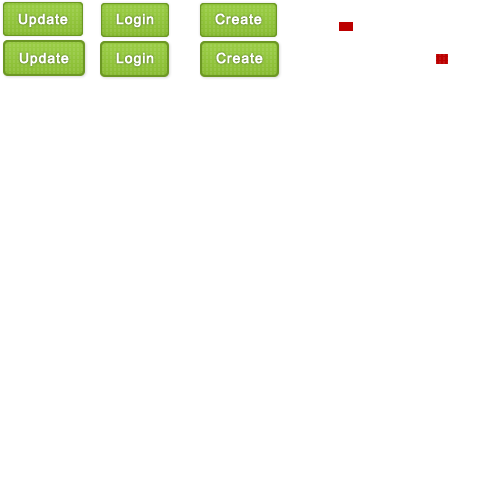
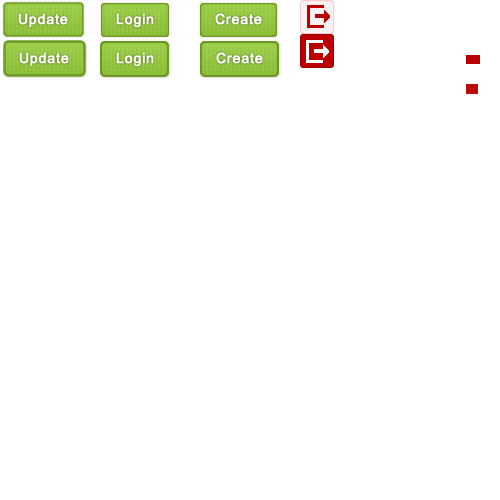
Authentication working, config generator - sets unique secret_key

diff --git a/amon/web/media/css/screen.css b/amon/web/media/css/screen.css
@@ -1,1 +1,1 @@
-html,body,div,span,applet,object,iframe,h1,h2,.right h3,.right h4,h3,.right h4,h4,h5,h6,p,blockquote,pre,a,abbr,acronym,address,big,cite,code,del,dfn,em,img,ins,kbd,q,s,samp,small,strike,strong,sub,sup,tt,var,b,u,i,center,dl,dt,dd,ol,ul,li,fieldset,form,label,legend,table,caption,tbody,tfoot,thead,tr,th,td,article,aside,canvas,details,embed,figure,figcaption,footer,header,hgroup,menu,nav,output,ruby,section,summary,time,mark,audio,video{margin:0;padding:0;border:0;font-size:100%;font:inherit;vertical-align:baseline}body{line-height:1}ol,ul{list-style:none}table{border-collapse:collapse;border-spacing:0}caption,th,td{text-align:left;font-weight:normal;vertical-align:middle}q,blockquote{quotes:none}q:before,q:after,blockquote:before,blockquote:after{content:"";content:none}a img{border:none}article,aside,details,figcaption,figure,footer,header,hgroup,menu,nav,section,summary{display:block}html{height:100%}body{font-size:62.5%;height:100%;font-family:Arial,Helvetica,sans-serif;background:url(../images/sidebar.png) repeat-y}.wrapper{width:100%;height:100%;margin:0 auto}.wrapright{float:left;height:100%;width:100%}.right{margin-left:159px;background-color:#fff;height:100%;min-height:100%;width:820px}.right .breadcrumb{float:left;width:100%}.right .breadcrumb h1{float:left;font-size:3.6em;font-weight:bold;color:#2b3239;padding-top:20px;padding-left:20px;padding-bottom:20px}.right h2,.right h3,.right h4{float:left;font-size:3em;clear:left;margin:25px;margin-bottom:20px;color:#727272}.right h3,.right h4{font-size:2em;color:#858585}.right h4{font-size:1.8em;margin-left:0px;margin-top:15px;margin-bottom:5px}.right table.info{float:left;width:800px;clear:left;margin-left:30px}.right table.info .thead{background:url(../images/table_heading.png) repeat-x}.right table.info .thead td{font-size:1.4em;color:#b4b4b4;padding-top:10px;padding-bottom:15px}.right table.info .thead td.status{padding-left:10px}.right table.info .tbody{margin-top:20px}.right table.info .tbody.odd{background:#f1f1f0}.right table.info .tbody td{margin:10px;padding:8px;padding-left:0px;font-size:1.4em;color:#656565}.right .status{width:10px}.right .status span{width:18px;height:18px;float:left;margin-left:20px;background:url(../images/status_icons.png) no-repeat}.right .status .ok{background-position:0px -36px}.right .status .warning{background-position:0px -18px}.right .overview{width:80px;font-weight:bold}.right .check{width:150px}.left{float:left;width:159px;margin-left:-100%;background:url(../images/sidebar.png) repeat-y;z-index:9999;height:100%;min-height:100%}.left .logo{float:left;width:113px;height:116px;background:url(../images/logo.png) no-repeat;margin-top:18px;margin-left:18px}.left ul{float:left;margin-top:25px}.left ul li{float:left;clear:left;margin-top:2px}.left ul li a.top{outline:none;width:124px;padding:20px;padding-top:9px;padding-bottom:9px;padding-right:10px;float:Left;text-align:left;color:#000;font-size:1.6em;text-decoration:none}.left ul li a.top .unread{float:right;-moz-border-radius:4px;-webkit-border-radius:4px;-o-border-radius:4px;-ms-border-radius:4px;-khtml-border-radius:4px;border-radius:4px;color:#fff;padding-left:6px;padding-right:7px;padding-top:2px;padding-bottom:2px;background:#f1b604;margin-left:3px;margin-top:-2px}.left ul li a.top:hover,.left ul li a.top.active{font-weight:bold;background:#f0f0f0}.left ul ul{float:left}.left ul ul li{float:left}.left ul ul li a{color:red}.chart{float:left;width:800px;height:250px;margin-left:25px;margin-bottom:30px;clear:left}#tooltip{position:absolute;display:none;border:1px solid #fdd;padding:8px;background-color:#fee;opacity:0.8;font-size:1.4em}.legend{float:right;margin-top:38px}.legend ul li{float:left}.legend ul li span.color{width:12px;-moz-border-radius:25px;-webkit-border-radius:25px;-o-border-radius:25px;-ms-border-radius:25px;-khtml-border-radius:25px;border-radius:25px;height:12px;margin-bottom:-1px;margin-right:6px}.legend ul li span.color.one{background:#00adfc}.legend ul li span.color.two{background:#7ab317}.legend ul li span.color.three{background:#8000a9}.legend ul li span{text-align:left;font-size:1.3em;display:inline-block;margin-right:30px;color:#858585}.legend ul li span.last{margin-right:0px}ul.tabs_settings{margin-left:20px;margin-top:10px;float:left}ul.tabs_settings li{float:left}ul.tabs_settings li.separator{float:left;width:20px;height:27px;margin-left:10px;margin-right:10px;background:url(../images/tabs_separator.png)}ul.tabs_settings li a{margin-right:1px;color:#d2d2d2;text-decoration:none;font-size:2.8em}ul.tabs_settings li a:hover,ul.tabs_settings li a.active{color:#747474}ul.tabs{margin-left:20px;margin-top:10px;float:left}ul.tabs li{float:left;margin-right:18px}ul.tabs li .button{background:url(../images/buttons.png);border:0px;text-indent:-3000px;cursor:pointer}ul.tabs li .button.update{width:86px;height:38px}ul.tabs li .button.update:hover{background-position:0px -38px;height:38px}ul.tabs li:last-child{margin-right:0px}ul.tabs li.with_button{margin-top:25px}ul.tabs li label{float:left;font-size:1.6em;margin-bottom:8px}ul.tabs li div.input_background{background:#fafafa;padding:4px;float:left;clear:left;-moz-border-radius:6px;-webkit-border-radius:6px;-o-border-radius:6px;-ms-border-radius:6px;-khtml-border-radius:6px;border-radius:6px}input[type=text]{clear:both;float:left;width:320px;height:25px;padding:4px;font-size:1.6em;border:1px solid #d2d2d2;-moz-border-radius:6px;-webkit-border-radius:6px;-o-border-radius:6px;-ms-border-radius:6px;-khtml-border-radius:6px;border-radius:6px;color:#727272}input[type=text]:focus{border:1px solid #7ab317;-moz-box-shadow:#deecc5 0px 0px 4px;-webkit-box-shadow:#deecc5 0px 0px 4px;-o-box-shadow:#deecc5 0px 0px 4px;box-shadow:#deecc5 0px 0px 4px}.logs_filter{margin-top:25px;float:right}.logs_filter li{float:left;font-size:1.4em;margin-left:15px;line-height:1.6em}.logs_filter li input[type=checkbox]{margin-top:10px;margin-right:5px;float:left}.logs_filter li span{margin-top:5px;float:left}.logs_filter li span.notset{color:#d2d2d2}.logs_filter li span.info{color:#92c142}.logs_filter li span.debug{color:#f1b602}.logs_filter li span.warning{color:red}.logs_filter li input[type=text]{width:150px;font-size:1em}.logs_filter li a.button{border:1px solid #fff;padding-bottom:5px;padding-left:10px;padding-right:10px;color:#7ab317;float:left;outline:none;text-decoration:none;-moz-border-radius:6px;-webkit-border-radius:6px;-o-border-radius:6px;-ms-border-radius:6px;-khtml-border-radius:6px;border-radius:6px}.logs_filter li a.button input[type=checkbox]{display:none}.logs_filter li a.button.notset{border:1px solid #f0f0f0;color:#7e8285}.logs_filter li a.button.notset:hover,.logs_filter li a.button.notset.active{background:#7e8285;color:#fff}.logs_filter li a.button.info{border:1px solid #deecc5;color:#7ab317}.logs_filter li a.button.info:hover,.logs_filter li a.button.info.active{background:#7ab317;color:#fff}.logs_filter li a.button.warning{border:1px solid #eebfbf;color:#bc0000}.logs_filter li a.button.warning:hover,.logs_filter li a.button.warning.active{background:#bc0000;color:#fff}.logs_filter li a.button.debug{border:1px solid #fdcb34;color:#fdcb34}.logs_filter li a.button.debug:hover,.logs_filter li a.button.debug.active{background:#fdcb34;color:#fff}.log_list,.exceptions_list{float:left;margin:20px;width:800px}.log_list li,.exceptions_list li{padding-bottom:40px;float:left;clear:left;width:800px}.log_list li .heading,.exceptions_list li .heading{float:left;width:800px;height:30px;background:#fbfbfb;border:1px solid #f0f0f0;-moz-border-radius:6px;-webkit-border-radius:6px;-o-border-radius:6px;-ms-border-radius:6px;-khtml-border-radius:6px;border-radius:6px}.log_list li span.date,.exceptions_list li span.date{color:#858585;font-size:1.4em;float:left;margin-top:9px;margin-left:8px}.log_list li p,.exceptions_list li p{font-size:1.4em;float:left;clear:left;padding-top:10px}.log_list li p strong,.exceptions_list li p strong{font-weight:bold}.log_list li span.level,.exceptions_list li span.level{float:right;height:14px;width:60px;-moz-border-radius-topright:4px;-webkit-border-top-right-radius:4px;-o-border-top-right-radius:4px;-ms-border-top-right-radius:4px;-khtml-border-top-right-radius:4px;border-top-right-radius:4px;-moz-border-radius-bottomright:4px;-webkit-border-bottom-right-radius:4px;-o-border-bottom-right-radius:4px;-ms-border-bottom-right-radius:4px;-khtml-border-bottom-right-radius:4px;border-bottom-right-radius:4px;color:#fff;font-weight:bold;font-size:1.4em;padding:8px;padding-left:10px;padding-right:10px;text-align:center}.log_list li span.level.notset,.exceptions_list li span.level.notset{background:url(../images/grey_bar.png)}.log_list li span.level.warning,.exceptions_list li span.level.warning{background:url(../images/red_bar.png)}.log_list li span.level.info,.exceptions_list li span.level.info{background:url(../images/green_bar.png)}.log_list li span.level.debug,.exceptions_list li span.level.debug{background:url(../images/yellow_bar.png)}.exceptions_list li{padding-bottom:10px}.exceptions_list div.heading{height:55px;-moz-border-radius-bottomleft:0px;-webkit-border-bottom-left-radius:0px;-o-border-bottom-left-radius:0px;-ms-border-bottom-left-radius:0px;-khtml-border-bottom-left-radius:0px;border-bottom-left-radius:0px;-moz-border-radius-bottomright:0px;-webkit-border-bottom-right-radius:0px;-o-border-bottom-right-radius:0px;-ms-border-bottom-right-radius:0px;-khtml-border-bottom-right-radius:0px;border-bottom-right-radius:0px}.exceptions_list div.heading span.occurrences{float:left;width:45px;height:40px;background:url(../images/exception_counter.png) no-repeat;margin:8px;text-align:center;line-height:3em;font-size:1.4em;font-weight:bold}.exceptions_list div.heading div.exception_info{float:left;width:735px}.exceptions_list div.heading span.exception{float:left;clear:left;font-size:1.4em;padding-left:8px;padding-top:10px}.exceptions_list div.heading a.collapse{width:27px;height:20px;background:url(../images/collapse.png) no-repeat;margin-right:10px;margin-top:-4px;float:right;outline:none}.exceptions_list div.heading a.collapse:hover,.exceptions_list div.heading a.collapse.active{background-position:0px -20px}.exceptions_list div.exception_additional_data{float:left;display:none}.exceptions_list a.show_full_trace{float:right;font-size:1.6em;margin-top:17px;color:#000}.exceptions_list p.backtrace,.exceptions_list p.hidden{padding:7px;padding-right:0px;margin-left:5px;margin-top:2px;padding-bottom:0px}.exceptions_list p.backtrace span,.exceptions_list p.hidden span{float:left;clear:left;width:100%;padding-top:4px;line-height:1.4em;color:#464646}.exceptions_list p.hidden{margin-top:0px;display:none;padding-top:0px}.exceptions_list ul.exception_data{margin-top:1px;float:left}.exceptions_list ul.exception_data li{border:0px}.exceptions_list ul.exception_data li span.label{font-size:1.6em;width:120px;float:left;clear:left;font-weight:bold}.exceptions_list ul.exception_data li span.data{font-size:1.6em;float:left;margin-left:6px}.exceptions_list ul.exception_data ul{float:left;padding-left:10px}.exceptions_list ul.exception_data ul.level-0{padding-left:0px}.exceptions_list span.key{float:left;clear:left;font-size:1.6em;margin-top:5px;margin-bottom:5px}.exceptions_list span.key_inner{float:left;margin-left:8px;padding-top:3px;clear:left;font-size:1.4em;font-weight:bold}.exceptions_list span.value_inner{float:left;margin-left:6px;padding-top:3px;font-size:1.4em}.timestamp{float:left;font-size:1.4em;margin-top:8px;color:#727272}ul.stats_bars{float:left;clear:left;margin-left:25px;margin-bottom:20px}ul.stats_bars li{float:left;clear:left;margin-bottom:15px}ul.stats_bars li.with_labels{margin-top:20px}ul.stats_bars li.with_labels div.container .progress{top:-14px}ul.stats_bars li.with_labels div.container .data{top:-35px}ul.stats_bars li h3,ul.stats_bars li .right h4,.right ul.stats_bars li h4{float:left;width:100px;margin:0px;margin-top:6px;margin-right:20px;text-align:right}ul.stats_bars li div.container{float:left;width:500px;height:30px;background:#fbfbfb;-moz-border-radius:6px;-webkit-border-radius:6px;-o-border-radius:6px;-ms-border-radius:6px;-khtml-border-radius:6px;border-radius:6px;border:1px solid #f0f0f0}ul.stats_bars li div.container.medium{width:245px;margin-right:10px}ul.stats_bars li div.container.medium.last{margin-right:0px}ul.stats_bars li div.container.medium .data{width:245px}ul.stats_bars li div.container.small{width:160px;margin-right:10px}ul.stats_bars li div.container.small.last{margin-right:0px}ul.stats_bars li div.container.small .data{width:160px}ul.stats_bars li div.container .progress{width:100px;display:block;position:relative;top:0px;left:0px;height:28px;background:url(../images/green_bar.png);border:1px solid #75a22b;-moz-border-radius:6px;-webkit-border-radius:6px;-o-border-radius:6px;-ms-border-radius:6px;-khtml-border-radius:6px;border-radius:6px}ul.stats_bars li div.container .progress.red{background:url(../images/red_bar.png);border:1px solid #bc0000}ul.stats_bars li div.container .progress.yellow{background:url(../images/yellow_bar.png);border:1px solid #f1b603}ul.stats_bars li div.container .data{position:relative;width:500px;text-align:center;top:-22px;display:block;font-size:1.4em;font-weight:bold;text-shadow:rgba(255,255,255,0.2) 1px 1px 0,rgba(255,255,255,0.2) 1px 1px 0,rgba(255,255,255,0.2) 1px 1px 0;color:#2b3239}ul.stats_bars li div.container .label{position:relative;top:-20px;left:0px;font-size:1.4em;color:#797979}ul.options_list{float:left;clear:left;margin-left:20px;margin-top:30px}ul.options_list li{float:left;margin-bottom:30px}ul.options_list span{font-size:1.8em;float:left;width:400px;margin-top:10px}ul.options_list a{font-size:1.4em;text-decoration:none;font-weight:bold;padding:10px;padding-left:18px;padding-right:18px;float:left;-moz-border-radius:6px;-webkit-border-radius:6px;-o-border-radius:6px;-ms-border-radius:6px;-khtml-border-radius:6px;border-radius:6px}ul.options_list a.delete{background:#eebfbf;color:#bc0000}ul.options_list a.delete:hover{color:#eebfbf;background:#bc0000}
+html,body,div,span,applet,object,iframe,h1,h2,.right h3,.right h4,h3,.right h4,h4,h5,h6,p,blockquote,pre,a,abbr,acronym,address,big,cite,code,del,dfn,em,img,ins,kbd,q,s,samp,small,strike,strong,sub,sup,tt,var,b,u,i,center,dl,dt,dd,ol,ul,li,fieldset,form,label,legend,table,caption,tbody,tfoot,thead,tr,th,td,article,aside,canvas,details,embed,figure,figcaption,footer,header,hgroup,menu,nav,output,ruby,section,summary,time,mark,audio,video{margin:0;padding:0;border:0;font-size:100%;font:inherit;vertical-align:baseline}body{line-height:1}ol,ul{list-style:none}table{border-collapse:collapse;border-spacing:0}caption,th,td{text-align:left;font-weight:normal;vertical-align:middle}q,blockquote{quotes:none}q:before,q:after,blockquote:before,blockquote:after{content:"";content:none}a img{border:none}article,aside,details,figcaption,figure,footer,header,hgroup,menu,nav,section,summary{display:block}html{height:100%}body{font-size:62.5%;height:100%;font-family:Arial,Helvetica,sans-serif;background:url(../images/sidebar.png) repeat-y}.wrapper{width:100%;height:100%;margin:0 auto}.wrapright{float:left;height:100%;width:100%}.right{margin-left:159px;background-color:#fff;height:100%;min-height:100%;width:820px}.right .breadcrumb{float:left;width:100%}.right .breadcrumb h1{float:left;font-size:3.6em;font-weight:bold;color:#2b3239;padding-top:20px;padding-left:20px;padding-bottom:20px}.right .breadcrumb .button{background:url(../images/buttons.png);border:0px;text-indent:-3000px}.right .breadcrumb .button.logout{margin-top:20px;float:right;width:34px;height:34px;background-position:-300px 0px}.right .breadcrumb .button.logout:hover{background-position:-300px -34px}.right h2,.right h3,.right h4{float:left;font-size:3em;clear:left;margin:25px;margin-bottom:20px;color:#727272}.right h3,.right h4{font-size:2em;color:#858585}.right h4{font-size:1.8em;margin-left:0px;margin-top:15px;margin-bottom:5px}.right table.info{float:left;width:800px;clear:left;margin-left:30px}.right table.info .thead{background:url(../images/table_heading.png) repeat-x}.right table.info .thead td{font-size:1.4em;color:#b4b4b4;padding-top:10px;padding-bottom:15px}.right table.info .thead td.status{padding-left:10px}.right table.info .tbody{margin-top:20px}.right table.info .tbody.odd{background:#f1f1f0}.right table.info .tbody td{margin:10px;padding:8px;padding-left:0px;font-size:1.4em;color:#656565}.right .status{width:10px}.right .status span{width:18px;height:18px;float:left;margin-left:20px;background:url(../images/status_icons.png) no-repeat}.right .status .ok{background-position:0px -36px}.right .status .warning{background-position:0px -18px}.right .overview{width:80px;font-weight:bold}.right .check{width:150px}.left{float:left;width:159px;margin-left:-100%;background:url(../images/sidebar.png) repeat-y;z-index:9999;height:100%;min-height:100%}.left .logo{float:left;width:113px;height:116px;background:url(../images/logo.png) no-repeat;margin-top:18px;margin-left:18px}.left ul{float:left;margin-top:25px}.left ul li{float:left;clear:left;margin-top:2px}.left ul li a.top{outline:none;width:124px;padding:20px;padding-top:9px;padding-bottom:9px;padding-right:10px;float:Left;text-align:left;color:#000;font-size:1.6em;text-decoration:none}.left ul li a.top .unread{float:right;-moz-border-radius:4px;-webkit-border-radius:4px;-o-border-radius:4px;-ms-border-radius:4px;-khtml-border-radius:4px;border-radius:4px;color:#fff;padding-left:6px;padding-right:7px;padding-top:2px;padding-bottom:2px;background:#f1b604;margin-left:3px;margin-top:-2px}.left ul li a.top:hover,.left ul li a.top.active{font-weight:bold;background:#f0f0f0}.left ul ul{float:left}.left ul ul li{float:left}.left ul ul li a{color:red}.chart{float:left;width:800px;height:250px;margin-left:25px;margin-bottom:30px;clear:left}#tooltip{position:absolute;display:none;border:1px solid #fdd;padding:8px;background-color:#fee;opacity:0.8;font-size:1.4em}.legend{float:right;margin-top:38px}.legend ul li{float:left}.legend ul li span.color{width:12px;-moz-border-radius:25px;-webkit-border-radius:25px;-o-border-radius:25px;-ms-border-radius:25px;-khtml-border-radius:25px;border-radius:25px;height:12px;margin-bottom:-1px;margin-right:6px}.legend ul li span.color.one{background:#00adfc}.legend ul li span.color.two{background:#7ab317}.legend ul li span.color.three{background:#8000a9}.legend ul li span{text-align:left;font-size:1.3em;display:inline-block;margin-right:30px;color:#858585}.legend ul li span.last{margin-right:0px}ul.tabs_settings{margin-left:20px;margin-top:10px;float:left}ul.tabs_settings li{float:left}ul.tabs_settings li.separator{float:left;width:20px;height:27px;margin-left:10px;margin-right:10px;background:url(../images/tabs_separator.png)}ul.tabs_settings li a{margin-right:1px;color:#d2d2d2;text-decoration:none;font-size:2.8em}ul.tabs_settings li a:hover,ul.tabs_settings li a.active{color:#747474}ul.tabs{margin-left:20px;margin-top:10px;float:left}ul.tabs li{float:left;margin-right:18px}ul.tabs li .button{background:url(../images/buttons.png);border:0px;text-indent:-3000px;cursor:pointer}ul.tabs li .button.update{width:86px;height:38px}ul.tabs li .button.update:hover{background-position:0px -38px;height:38px}ul.tabs li:last-child{margin-right:0px}ul.tabs li.with_button{margin-top:25px}ul.tabs li label{float:left;font-size:1.6em;margin-bottom:8px}ul.tabs li div.input_background{background:#fafafa;padding:4px;float:left;clear:left;-moz-border-radius:6px;-webkit-border-radius:6px;-o-border-radius:6px;-ms-border-radius:6px;-khtml-border-radius:6px;border-radius:6px}input[type=text]{clear:both;float:left;width:320px;height:25px;padding:4px;font-size:1.6em;border:1px solid #d2d2d2;-moz-border-radius:6px;-webkit-border-radius:6px;-o-border-radius:6px;-ms-border-radius:6px;-khtml-border-radius:6px;border-radius:6px;color:#727272}input[type=text]:focus{border:1px solid #7ab317;-moz-box-shadow:#deecc5 0px 0px 4px;-webkit-box-shadow:#deecc5 0px 0px 4px;-o-box-shadow:#deecc5 0px 0px 4px;box-shadow:#deecc5 0px 0px 4px}.logs_filter{margin-top:25px;float:right}.logs_filter li{float:left;font-size:1.4em;margin-left:15px;line-height:1.6em}.logs_filter li input[type=checkbox]{margin-top:10px;margin-right:5px;float:left}.logs_filter li span{margin-top:5px;float:left}.logs_filter li span.notset{color:#d2d2d2}.logs_filter li span.info{color:#92c142}.logs_filter li span.debug{color:#f1b602}.logs_filter li span.warning{color:red}.logs_filter li input[type=text]{width:150px;font-size:1em}.logs_filter li a.button{border:1px solid #fff;padding-bottom:5px;padding-left:10px;padding-right:10px;color:#7ab317;float:left;outline:none;text-decoration:none;-moz-border-radius:6px;-webkit-border-radius:6px;-o-border-radius:6px;-ms-border-radius:6px;-khtml-border-radius:6px;border-radius:6px}.logs_filter li a.button input[type=checkbox]{display:none}.logs_filter li a.button.notset{border:1px solid #f0f0f0;color:#7e8285}.logs_filter li a.button.notset:hover,.logs_filter li a.button.notset.active{background:#7e8285;color:#fff}.logs_filter li a.button.info{border:1px solid #deecc5;color:#7ab317}.logs_filter li a.button.info:hover,.logs_filter li a.button.info.active{background:#7ab317;color:#fff}.logs_filter li a.button.warning{border:1px solid #eebfbf;color:#bc0000}.logs_filter li a.button.warning:hover,.logs_filter li a.button.warning.active{background:#bc0000;color:#fff}.logs_filter li a.button.debug{border:1px solid #fdcb34;color:#fdcb34}.logs_filter li a.button.debug:hover,.logs_filter li a.button.debug.active{background:#fdcb34;color:#fff}.log_list,.exceptions_list{float:left;margin:20px;width:800px}.log_list li,.exceptions_list li{padding-bottom:40px;float:left;clear:left;width:800px}.log_list li .heading,.exceptions_list li .heading{float:left;width:800px;height:30px;background:#fbfbfb;border:1px solid #f0f0f0;-moz-border-radius:6px;-webkit-border-radius:6px;-o-border-radius:6px;-ms-border-radius:6px;-khtml-border-radius:6px;border-radius:6px}.log_list li span.date,.exceptions_list li span.date{color:#858585;font-size:1.4em;float:left;margin-top:9px;margin-left:8px}.log_list li p,.exceptions_list li p{font-size:1.4em;float:left;clear:left;padding-top:10px}.log_list li p strong,.exceptions_list li p strong{font-weight:bold}.log_list li span.level,.exceptions_list li span.level{float:right;height:14px;width:60px;-moz-border-radius-topright:4px;-webkit-border-top-right-radius:4px;-o-border-top-right-radius:4px;-ms-border-top-right-radius:4px;-khtml-border-top-right-radius:4px;border-top-right-radius:4px;-moz-border-radius-bottomright:4px;-webkit-border-bottom-right-radius:4px;-o-border-bottom-right-radius:4px;-ms-border-bottom-right-radius:4px;-khtml-border-bottom-right-radius:4px;border-bottom-right-radius:4px;color:#fff;font-weight:bold;font-size:1.4em;padding:8px;padding-left:10px;padding-right:10px;text-align:center}.log_list li span.level.notset,.exceptions_list li span.level.notset{background:url(../images/grey_bar.png)}.log_list li span.level.warning,.exceptions_list li span.level.warning{background:url(../images/red_bar.png)}.log_list li span.level.info,.exceptions_list li span.level.info{background:url(../images/green_bar.png)}.log_list li span.level.debug,.exceptions_list li span.level.debug{background:url(../images/yellow_bar.png)}.exceptions_list li{padding-bottom:10px}.exceptions_list div.heading{height:55px;-moz-border-radius-bottomleft:0px;-webkit-border-bottom-left-radius:0px;-o-border-bottom-left-radius:0px;-ms-border-bottom-left-radius:0px;-khtml-border-bottom-left-radius:0px;border-bottom-left-radius:0px;-moz-border-radius-bottomright:0px;-webkit-border-bottom-right-radius:0px;-o-border-bottom-right-radius:0px;-ms-border-bottom-right-radius:0px;-khtml-border-bottom-right-radius:0px;border-bottom-right-radius:0px}.exceptions_list div.heading span.occurrences{float:left;width:45px;height:40px;background:url(../images/exception_counter.png) no-repeat;margin:8px;text-align:center;line-height:3em;font-size:1.4em;font-weight:bold}.exceptions_list div.heading div.exception_info{float:left;width:735px}.exceptions_list div.heading span.exception{float:left;clear:left;font-size:1.4em;padding-left:8px;padding-top:10px}.exceptions_list div.heading a.collapse{width:27px;height:20px;background:url(../images/collapse.png) no-repeat;margin-right:10px;margin-top:-4px;float:right;outline:none}.exceptions_list div.heading a.collapse:hover,.exceptions_list div.heading a.collapse.active{background-position:0px -20px}.exceptions_list div.exception_additional_data{float:left;display:none}.exceptions_list a.show_full_trace{float:right;font-size:1.6em;margin-top:17px;color:#000}.exceptions_list p.backtrace,.exceptions_list p.hidden{padding:7px;padding-right:0px;margin-left:5px;margin-top:2px;padding-bottom:0px}.exceptions_list p.backtrace span,.exceptions_list p.hidden span{float:left;clear:left;width:100%;padding-top:4px;line-height:1.4em;color:#464646}.exceptions_list p.hidden{margin-top:0px;display:none;padding-top:0px}.exceptions_list ul.exception_data{margin-top:1px;float:left}.exceptions_list ul.exception_data li{border:0px}.exceptions_list ul.exception_data li span.label{font-size:1.6em;width:120px;float:left;clear:left;font-weight:bold}.exceptions_list ul.exception_data li span.data{font-size:1.6em;float:left;margin-left:6px}.exceptions_list ul.exception_data ul{float:left;padding-left:10px}.exceptions_list ul.exception_data ul.level-0{padding-left:0px}.exceptions_list span.key{float:left;clear:left;font-size:1.6em;margin-top:5px;margin-bottom:5px}.exceptions_list span.key_inner{float:left;margin-left:8px;padding-top:3px;clear:left;font-size:1.4em;font-weight:bold}.exceptions_list span.value_inner{float:left;margin-left:6px;padding-top:3px;font-size:1.4em}.timestamp{float:left;font-size:1.4em;margin-top:8px;color:#727272}ul.stats_bars{float:left;clear:left;margin-left:25px;margin-bottom:20px}ul.stats_bars li{float:left;clear:left;margin-bottom:15px}ul.stats_bars li.with_labels{margin-top:20px}ul.stats_bars li.with_labels div.container .progress{top:-14px}ul.stats_bars li.with_labels div.container .data{top:-35px}ul.stats_bars li h3,ul.stats_bars li .right h4,.right ul.stats_bars li h4{float:left;width:100px;margin:0px;margin-top:6px;margin-right:20px;text-align:right}ul.stats_bars li div.container{float:left;width:500px;height:30px;background:#fbfbfb;-moz-border-radius:6px;-webkit-border-radius:6px;-o-border-radius:6px;-ms-border-radius:6px;-khtml-border-radius:6px;border-radius:6px;border:1px solid #f0f0f0}ul.stats_bars li div.container.medium{width:245px;margin-right:10px}ul.stats_bars li div.container.medium.last{margin-right:0px}ul.stats_bars li div.container.medium .data{width:245px}ul.stats_bars li div.container.small{width:160px;margin-right:10px}ul.stats_bars li div.container.small.last{margin-right:0px}ul.stats_bars li div.container.small .data{width:160px}ul.stats_bars li div.container .progress{width:100px;display:block;position:relative;top:0px;left:0px;height:28px;background:url(../images/green_bar.png);border:1px solid #75a22b;-moz-border-radius:6px;-webkit-border-radius:6px;-o-border-radius:6px;-ms-border-radius:6px;-khtml-border-radius:6px;border-radius:6px}ul.stats_bars li div.container .progress.red{background:url(../images/red_bar.png);border:1px solid #bc0000}ul.stats_bars li div.container .progress.yellow{background:url(../images/yellow_bar.png);border:1px solid #f1b603}ul.stats_bars li div.container .data{position:relative;width:500px;text-align:center;top:-22px;display:block;font-size:1.4em;font-weight:bold;text-shadow:rgba(255,255,255,0.2) 1px 1px 0,rgba(255,255,255,0.2) 1px 1px 0,rgba(255,255,255,0.2) 1px 1px 0;color:#2b3239}ul.stats_bars li div.container .label{position:relative;top:-20px;left:0px;font-size:1.4em;color:#797979}ul.options_list{float:left;clear:left;margin-left:20px;margin-top:30px}ul.options_list li{float:left;margin-bottom:30px}ul.options_list span{font-size:1.8em;float:left;width:400px;margin-top:10px}ul.options_list a{font-size:1.4em;text-decoration:none;font-weight:bold;padding:10px;padding-left:18px;padding-right:18px;float:left;-moz-border-radius:6px;-webkit-border-radius:6px;-o-border-radius:6px;-ms-border-radius:6px;-khtml-border-radius:6px;border-radius:6px}ul.options_list a.delete{background:#eebfbf;color:#bc0000}ul.options_list a.delete:hover{color:#eebfbf;background:#bc0000}

diff --git a/amon/web/media/css/login.css b/amon/web/media/css/login.css
@@ -1,1 +1,1 @@
-html,body,div,span,applet,object,iframe,h1,h2,h3,h4,h5,h6,p,blockquote,pre,a,abbr,acronym,address,big,cite,code,del,dfn,em,img,ins,kbd,q,s,samp,small,strike,strong,sub,sup,tt,var,b,u,i,center,dl,dt,dd,ol,ul,li,fieldset,form,label,legend,table,caption,tbody,tfoot,thead,tr,th,td,article,aside,canvas,details,embed,figure,figcaption,footer,header,hgroup,menu,nav,output,ruby,section,summary,time,mark,audio,video{margin:0;padding:0;border:0;font-size:100%;font:inherit;vertical-align:baseline}body{line-height:1}ol,ul{list-style:none}table{border-collapse:collapse;border-spacing:0}caption,th,td{text-align:left;font-weight:normal;vertical-align:middle}q,blockquote{quotes:none}q:before,q:after,blockquote:before,blockquote:after{content:"";content:none}a img{border:none}article,aside,details,figcaption,figure,footer,header,hgroup,menu,nav,section,summary{display:block}html{height:100%}body{font-size:62.5%;height:100%;font-family:Arial,Helvetica,sans-serif}div.center{margin:0 auto;width:360px;height:100px;margin-top:15px}div.center .message{background:#fbefef;margin-top:15px;border:6px solid #f5cfcf;padding:10px;font-size:1.4em;line-height:1.4em;-moz-border-radius:6px;-webkit-border-radius:6px;-o-border-radius:6px;-ms-border-radius:6px;-khtml-border-radius:6px;border-radius:6px}div.center .logo{margin:0 auto;text-align:center;display:block}div.center input[type=text],div.center input[type=password]{width:265px;height:40px;padding-left:45px;border:1px solid #d2d2d2;-moz-border-radius:6px;-webkit-border-radius:6px;-o-border-radius:6px;-ms-border-radius:6px;-khtml-border-radius:6px;border-radius:6px;position:relative}div.center .button{float:right;background:url(../images/buttons.png);border:0px;text-indent:-3000px;cursor:pointer}div.center .button.login{width:70px;height:38px;background-position:-100px 0px}div.center .button.login:hover{background-position:-100px -40px;height:38px}div.center .button.create{width:79px;height:38px;background-position:-200px 0px}div.center .button.create:hover{background-position:-200px -40px;height:38px}div.center ul{float:left}div.center ul li{float:left;width:316px;clear:left;margin:18px;margin-bottom:5px;margin-top:14px;margin-right:13px}div.login_box{margin-top:15px;background:url(../images/box.png);-moz-border-radius:6px;-webkit-border-radius:6px;-o-border-radius:6px;-ms-border-radius:6px;-khtml-border-radius:6px;border-radius:6px;border:6px solid #f0f0f0;float:left;padding-bottom:10px}div.login_box .background-label{width:41px;height:44px;float:left;margin-bottom:-46px;position:relative;z-index:100}div.login_box .background-label.username{background:url(../images/user.png)}div.login_box .background-label.password{background:url(../images/password.png)}
+html,body,div,span,applet,object,iframe,h1,h2,h3,h4,h5,h6,p,blockquote,pre,a,abbr,acronym,address,big,cite,code,del,dfn,em,img,ins,kbd,q,s,samp,small,strike,strong,sub,sup,tt,var,b,u,i,center,dl,dt,dd,ol,ul,li,fieldset,form,label,legend,table,caption,tbody,tfoot,thead,tr,th,td,article,aside,canvas,details,embed,figure,figcaption,footer,header,hgroup,menu,nav,output,ruby,section,summary,time,mark,audio,video{margin:0;padding:0;border:0;font-size:100%;font:inherit;vertical-align:baseline}body{line-height:1}ol,ul{list-style:none}table{border-collapse:collapse;border-spacing:0}caption,th,td{text-align:left;font-weight:normal;vertical-align:middle}q,blockquote{quotes:none}q:before,q:after,blockquote:before,blockquote:after{content:"";content:none}a img{border:none}article,aside,details,figcaption,figure,footer,header,hgroup,menu,nav,section,summary{display:block}html{height:100%}body{font-size:62.5%;height:100%;font-family:Arial,Helvetica,sans-serif}div.center{margin:0 auto;width:360px;height:100px;margin-top:15px}div.center .error{float:left;background:#bc0000;margin-top:4px;font-size:1.4em;padding:8px;padding-top:5px;padding-bottom:5px;color:#fff;-moz-border-radius:4px;-webkit-border-radius:4px;-o-border-radius:4px;-ms-border-radius:4px;-khtml-border-radius:4px;border-radius:4px}div.center .message{background:#fbefef;margin-top:15px;border:5px solid #f5cfcf;padding:10px;font-size:1.4em;line-height:1.4em;-moz-border-radius:5px;-webkit-border-radius:5px;-o-border-radius:5px;-ms-border-radius:5px;-khtml-border-radius:5px;border-radius:5px}div.center .message.green{background:#f0f7e4;border:5px solid #ceddb5}div.center .logo{margin:0 auto;text-align:center;display:block}div.center input[type=text],div.center input[type=password]{width:265px;height:40px;padding-left:45px;border:1px solid #d2d2d2;-moz-border-radius:6px;-webkit-border-radius:6px;-o-border-radius:6px;-ms-border-radius:6px;-khtml-border-radius:6px;border-radius:6px;position:relative}div.center .button{float:right;background:url(../images/buttons.png);border:0px;text-indent:-3000px;cursor:pointer}div.center .button.login{width:70px;height:38px;background-position:-100px 0px}div.center .button.login:hover{background-position:-100px -40px;height:38px}div.center .button.create{width:79px;height:38px;background-position:-200px 0px}div.center .button.create:hover{background-position:-200px -40px;height:38px}div.center ul{float:left}div.center ul li{float:left;width:316px;clear:left;margin:18px;margin-bottom:5px;margin-top:14px;margin-right:13px}div.login_box{margin-top:15px;background:url(../images/box.png);-moz-border-radius:6px;-webkit-border-radius:6px;-o-border-radius:6px;-ms-border-radius:6px;-khtml-border-radius:6px;border-radius:6px;border:6px solid #f0f0f0;float:left;padding-bottom:10px}div.login_box .background-label{width:41px;height:44px;float:left;margin-bottom:-46px;position:relative;z-index:100}div.login_box .background-label.username{background:url(../images/user.png)}div.login_box .background-label.password{background:url(../images/password.png)}

diff --git a/amon/web/templates/create_user.html b/amon/web/templates/create_user.html
@@ -10,7 +10,7 @@
 <body>
 	<div class="center">
 		<img class='logo' src="/media/images/logo.png" alt="" />
-		<div class="message">
+		<div class="message red">
 		Amon is no longer in read-only mode.
 		To access the application, please create a user using the form below.	
 		</div>
@@ -19,11 +19,17 @@
 			<ul>
 				<li>
 					<label for="" class='background-label username'></label>
-					<input id="" name="" type="text" placeholder='Username' />
+					<input id="" name="username" type="text" placeholder='Username' value="{{ form_data.username }}" />
+					{% if errors.username %}
+						<p class="error">{{ errors.username }}</p>
+					{% endif %}
 				</li>
 				<li>
 					<label for="" class='background-label password'></label>
-					<input id="" name="" type="password" placeholder='Password' />
+					<input id="" name="password" type="password" placeholder='Password' />
+					{% if errors.password %}
+						<p class="error">{{ errors.password }}</p>
+					{% endif %}
 				</li>
 				<li>
 					<input type="submit" value="Create" class='button create' />

diff --git a/amon/web/templates/login.html b/amon/web/templates/login.html
@@ -10,22 +10,34 @@
 <body>
 	<div class="center">
 		<img class='logo' src="/media/images/logo.png" alt="" />
+		{% if message %}
+			<div class="message green">
+				{{ message }}
+			</div>
+		{% endif %}
 		<div class="login_box">
+			<form action="{{ base_url|url('login') }}" method='post'>
 			<ul>
+				{% if errors %}
+				<li>
+					<span class="error">
+						{{ errors }}
+					</span>
+				</li>
+				{% endif %}
 				<li>
 					<label for="" class='background-label username'></label>
-					<input id="" name="" type="text" placeholder='Username' />
+					<input name="username" type="text" placeholder='Username' />
 				</li>
 				<li>
 					<label for="" class='background-label password'></label>
-					<input id="" name="" type="password" placeholder='Password' />
+					<input name="password" type="password" placeholder='Password' />
 				</li>
 				<li>
 					<input type="submit" value="Login" class='button login' />
 				</li>
-			
 			</ul>
-		
+			</form>
 		</div>
 	
 	</div>

diff --git a/amon/web/media/sass/login.sass b/amon/web/media/sass/login.sass
@@ -11,14 +11,27 @@ div.center
   width: 360px
   height: 100px
   margin-top: 15px
+  .error
+    float: left
+    background: #BC0000
+    margin-top: 4px
+    font-size: 1.4em
+    padding: 8px
+      top: 5px
+      bottom: 5px
+    color: white
+    +border-radius(4px)
   .message
     background: #FBEFEF
     margin-top: 15px
-    border: 6px solid #F5CFCF 
+    border: 5px solid #F5CFCF 
     padding: 10px
     font-size: 1.4em
     line-height: 1.4em
-    +border-radius(6px)
+    +border-radius(5px)
+    &.green
+      background: #F0F7E4
+      border: 5px solid  #CEDDB5 
   .logo
     margin: 0 auto
     text-align: center

diff --git a/amon/web/media/sass/screen.sass b/amon/web/media/sass/screen.sass
@@ -33,6 +33,18 @@ body
         top: 20px
         left: 20px
         bottom: 20px
+    .button
+      background: url(../images/buttons.png)
+      border: 0px
+      text-indent: -3000px
+      &.logout
+        margin-top: 20px
+        float: right
+        width: 34px
+        height: 34px
+        background-position: -300px 0px
+        &:hover
+          background-position: -300px -34px
   // Used in charts
   h2
     float: left

diff --git a/amon/web/templates/base.html b/amon/web/templates/base.html
@@ -21,6 +21,10 @@
 			
 				{% endblock %}
 				</h1>
+				{% if acl == True %}
+					<a href="{{ base_url|url('logout') }}" class='button logout' title='Logout'></a>
+				{% endif %}
+				
 				{% block filter %}
 				
 				{% endblock %}

diff --git a/amon/web/views/auth.py b/amon/web/views/auth.py
@@ -1,9 +1,9 @@
 from amon.web.views.base import BaseView
 from amon.web.template import render
 from amon.web.forms import CreateUserForm
+from amon.web.models import user_model
 from formencode.validators import Invalid as InvalidForm
 	
-
 
 class LoginView(BaseView):
 
@@ -12,8 +12,57 @@ class LoginView(BaseView):
 
 
 	def get(self):
-		_template = render(template='login.html')
+		message =  self.session.get('message',None)
+		errors =  self.session.get('errors',None)
+		
+		_template = render(template='login.html',
+					message=message,
+					errors=errors)
+		
+		try:
+			del self.session['errors']
+			del self.session['message']
+			self.save_session()
+		except:
+			pass
+
+		
 		self.write(_template)
+
+
+	def post(self):
+		form_data = {
+			"username": self.get_argument('username', None),
+			"password": self.get_argument('password', None),
+		}
+	   
+
+		user = user_model.check_user(form_data)
+		
+		if len(user) == 0:
+			self.session['errors'] = "Invalid login details"
+			self.save_session()
+			self.redirect('/login')
+		else:
+			self.session['user'] = {'username': user['username'],
+									'user_id': user['_id']}
+			self.save_session()
+			self.redirect('/')
+
+class LogoutView(BaseView):
+	
+	def initialize(self):
+		super(LogoutView, self).initialize()
+
+
+	def get(self):
+		try:
+			del self.session['user']
+			self.save_session()
+		except:
+			pass
+
+		self.redirect('/login')
 
 class CreateUserView(BaseView):
 
@@ -22,11 +71,15 @@ class CreateUserView(BaseView):
 
 
 	def get(self):
-		try:
-			print repr(self.session)
-		except:
-			pass
-		_template = render(template='create_user.html')
+		errors = self.session.get('errors', None)
+		form_data = self.session.get('form_data', None)
+			
+		
+		
+		_template = render(template='create_user.html',
+							errors=errors,
+							form_data=form_data)
+
 		self.write(_template)
 
 	def post(self):
@@ -36,8 +89,23 @@ class CreateUserView(BaseView):
 		}
 		try:
 			valid_data = CreateUserForm.to_python(form_data)
+			user_model.create_user(valid_data)
+			self.session['message'] = 'Account successfuly created. You can now log in'
+			self.save_session()
+			
+			try:
+				del self.session['errors']
+				del self.session['form_data']
+				self.save_session()
+			except:
+				pass
+
+			self.redirect('/login')
+
 		except InvalidForm, e:
 			self.session['errors'] = e.unpack_errors()
+			self.session['form_data'] = form_data
+			
 			self.save_session()
 			self.redirect('/create_user')
  

diff --git a/amon/web/models.py b/amon/web/models.py
@@ -1,5 +1,6 @@
 from amon.backends.mongodb import MongoBackend
 from pymongo import DESCENDING, ASCENDING 
+from hashlib import sha1
 
 class BaseModel(object):
 
@@ -153,9 +154,35 @@ class CommonModel(BaseModel):
 		return unread_values
 
 
+class UserModel(BaseModel):
+	
+	def __init__(self):
+		super(UserModel, self).__init__()
+		self.collection = self.mongo.get_collection('users')
+
+
+	def create_user(self, userdata):
+		userdata['password'] = sha1(userdata['password']).hexdigest()
+		self.collection.save(userdata)
+
+	def check_user(self, userdata):
+		userdata['password'] = sha1(userdata['password']).hexdigest()
+		result = self.collection.find_one({"username": userdata['username'],
+									"password": userdata['password']})
+
+
+		return result
+
+	def username_exists(self, username):
+		result = self.collection.find({"username": username}).count()
+
+		return result
+
+
 dashboard_model = DashboardModel()
 common_model = CommonModel()
 process_model = ProcessModel()
 system_model = SystemModel()
 exception_model = ExceptionModel()
 log_model = LogModel()
+user_model = UserModel()

diff --git a/amon/web/server.py b/amon/web/server.py
@@ -1,16 +1,15 @@
 from amon.web.views.app import DashboardView, SystemView, ProcessesView, ExceptionsView, LogsView
-from amon.web.views.auth import LoginView, CreateUserView
+from amon.web.views.auth import LoginView, CreateUserView, LogoutView
 from amon.web.settings import PROJECT_ROOT
+from amon.core import settings
 from amon.web.views.api import ApiLogs, ApiException
-import os
+import os.path
 import tornado.web
-import base64
-import uuid
 	
 app_settings = {
 	"static_path": os.path.join(PROJECT_ROOT, "media"),
 	"debug": "True",
-	"cookie_secret": base64.b64encode(uuid.uuid4().bytes + uuid.uuid4().bytes)  
+	"cookie_secret": settings.SECRET_KEY
 }
 
 handlers = [
@@ -22,6 +21,7 @@ handlers = [
 	(r"/logs", LogsView),
 	# Auth
 	(r"/login", LoginView),
+	(r"/logout", LogoutView),
 	(r"/create_user", CreateUserView),
 	# API
 	(r"/api/log", ApiLogs),

diff --git a/amon/web/forms.py b/amon/web/forms.py
@@ -1,6 +1,18 @@
 import formencode
 from formencode import validators
+from amon.web.models import user_model
+
+class UniqueUsername(formencode.FancyValidator):
+
+	def _to_python(self, value, state):
+		user = user_model.username_exists(value)
+		if user == 1:
+			raise formencode.Invalid('The username already exists', value, state)
+
+		return value
 
 class CreateUserForm(formencode.Schema):
-     username = validators.String(not_empty=True)
-     password = validators.String(not_empty=True)
+	username = formencode.All(validators.String(not_empty=True, min=4),UniqueUsername())
+	password = validators.String(not_empty=True, min=4)
+
+

diff --git a/generate_config.py b/generate_config.py
@@ -1,0 +1,26 @@
+import os.path
+import uuid
+from hashlib import sha1
+
+ROOT = os.path.abspath(os.path.dirname(__file__))
+config_path =  os.path.join(ROOT, 'config', 'amon.conf')
+generated_config_path =  os.path.join(ROOT, 'amon.conf')
+
+try:
+    import json
+except ImportError:
+    import simplejson as json
+
+try:
+	config_file = file(config_path).read()
+	config = json.loads(config_file)
+except:
+	config = {}
+
+config['secret_key'] = sha1(uuid.uuid4().bytes + uuid.uuid4().bytes).hexdigest()
+
+
+with open(generated_config_path,'w+') as f:
+	config_contents = json.dumps(config, indent=4)
+	f.write(config_contents)
+
